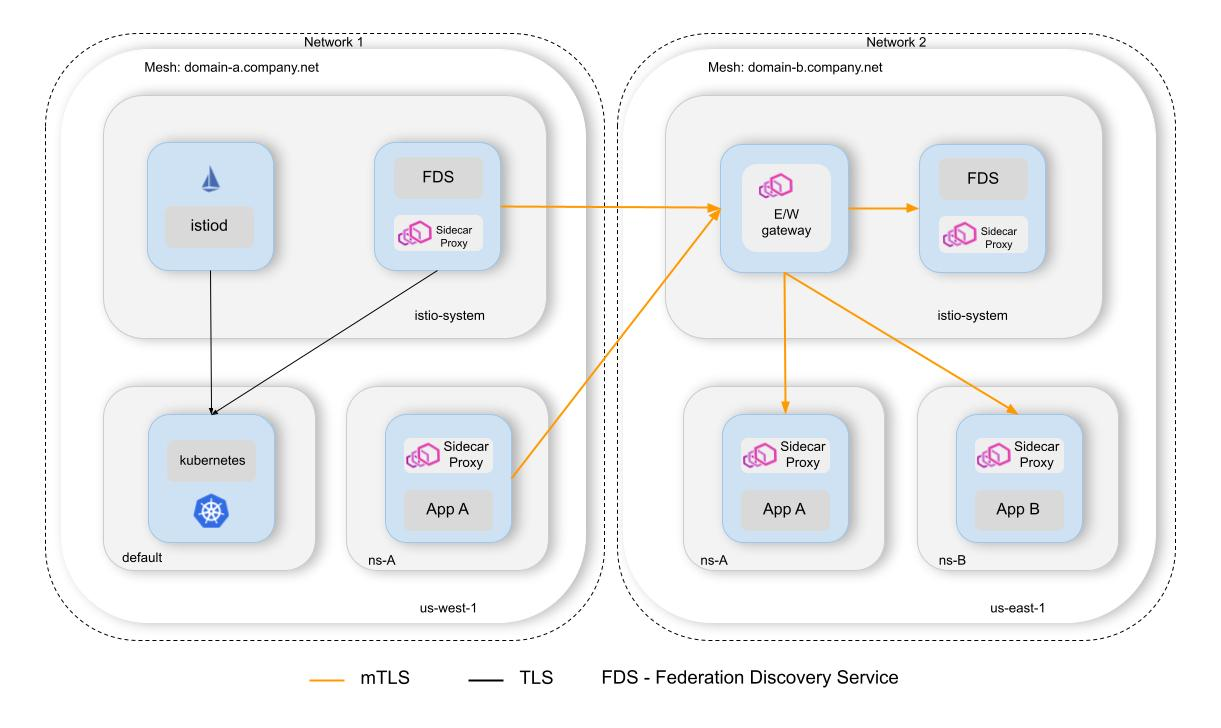
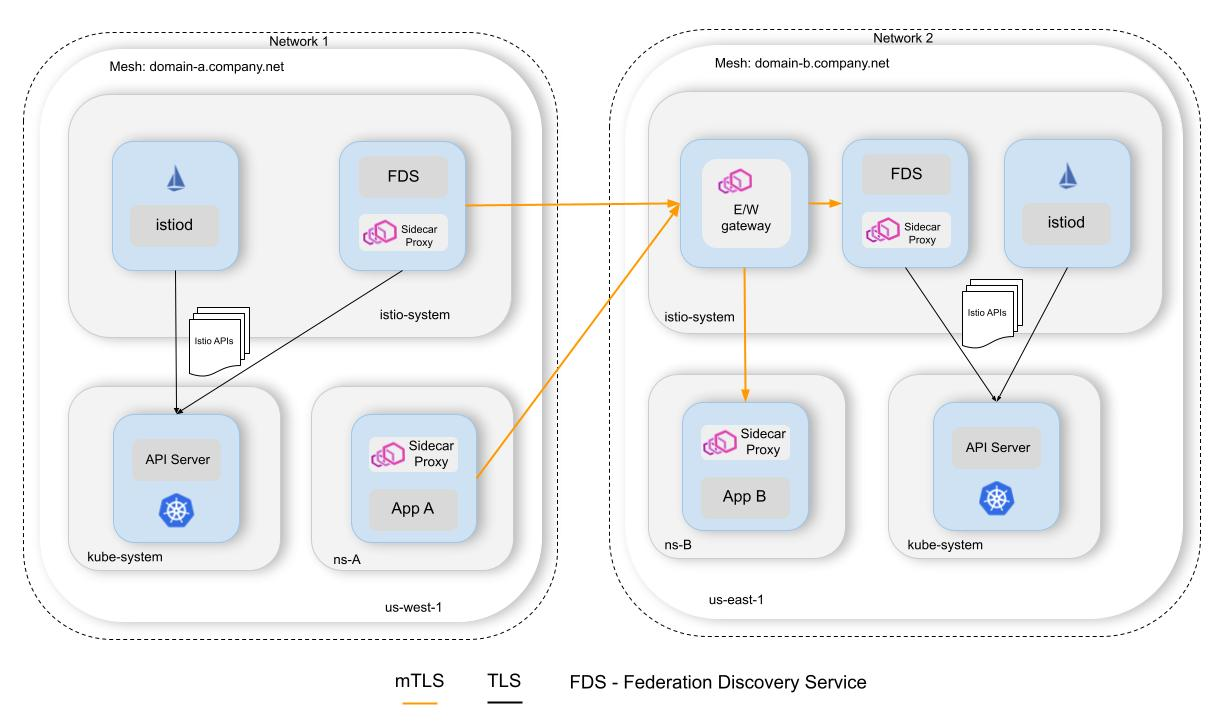
Update architecture diagram

diff --git a/README.md b/README.md
@@ -18,7 +18,7 @@ in the local cluster depending on whether the service exists locally.
 The controller also watches local `Service` objects and checks if they match the export rules - if so,
 it adds the service's FQDN to the auto-passthrough `Gateway` hosts.
 
-### Architecture
+## High-level architecture
 
 ![architecture](docs/img/architecture.jpg)
 
